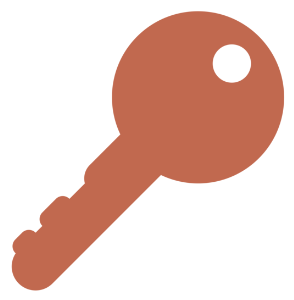
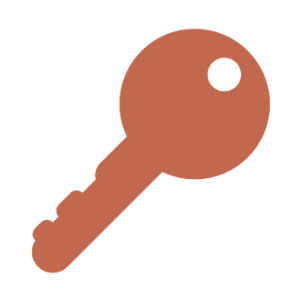
main UI layout finished for now

diff --git a/code/ui/MainUI.scss b/code/ui/MainUI.scss
@@ -7,7 +7,40 @@ MainGame{
     background-color: rgb(13, 17, 23);
     color: white;
     font-family: poppins;
-    z-index: -2;
+    z-index: -9;
     pointer-events: all;
     width: 100%;
+}
+
+#flex {
+    display: flex;
+    flex-direction: column;
+}
+
+//collums
+.left{
+    width: 30%;
+    order: 1;
+}
+
+.center{
+    width: 40%;
+    order: 2;
+}
+
+.right{
+    width: 30%;
+    order: 3;
+}
+
+//main clicky
+.leimage{
+    width: 400px;
+    height: 400px;
+    object-fit: contain;
+    position: relative;
+    margin-left: 30%;
+    margin-right: 30%;
+    margin-top: 20%;
+    margin-bottom: 30%;
 }

diff --git a/code/ui/MainGame.cs b/code/ui/MainGame.cs
@@ -8,7 +8,18 @@ public class MainGame : Panel
     {
         StyleSheet.Load("/ui/MainUI.scss");
 
+
+        var left = Add.Panel("left");
+        {
+               
+        }
+
         var center = Add.Panel("center");
+        {
+            var leimage = center.Add.Image("/assets/keyart.png", "leimage");
+        }
+
+        var right = Add.Panel("right");
         {
                
         }
